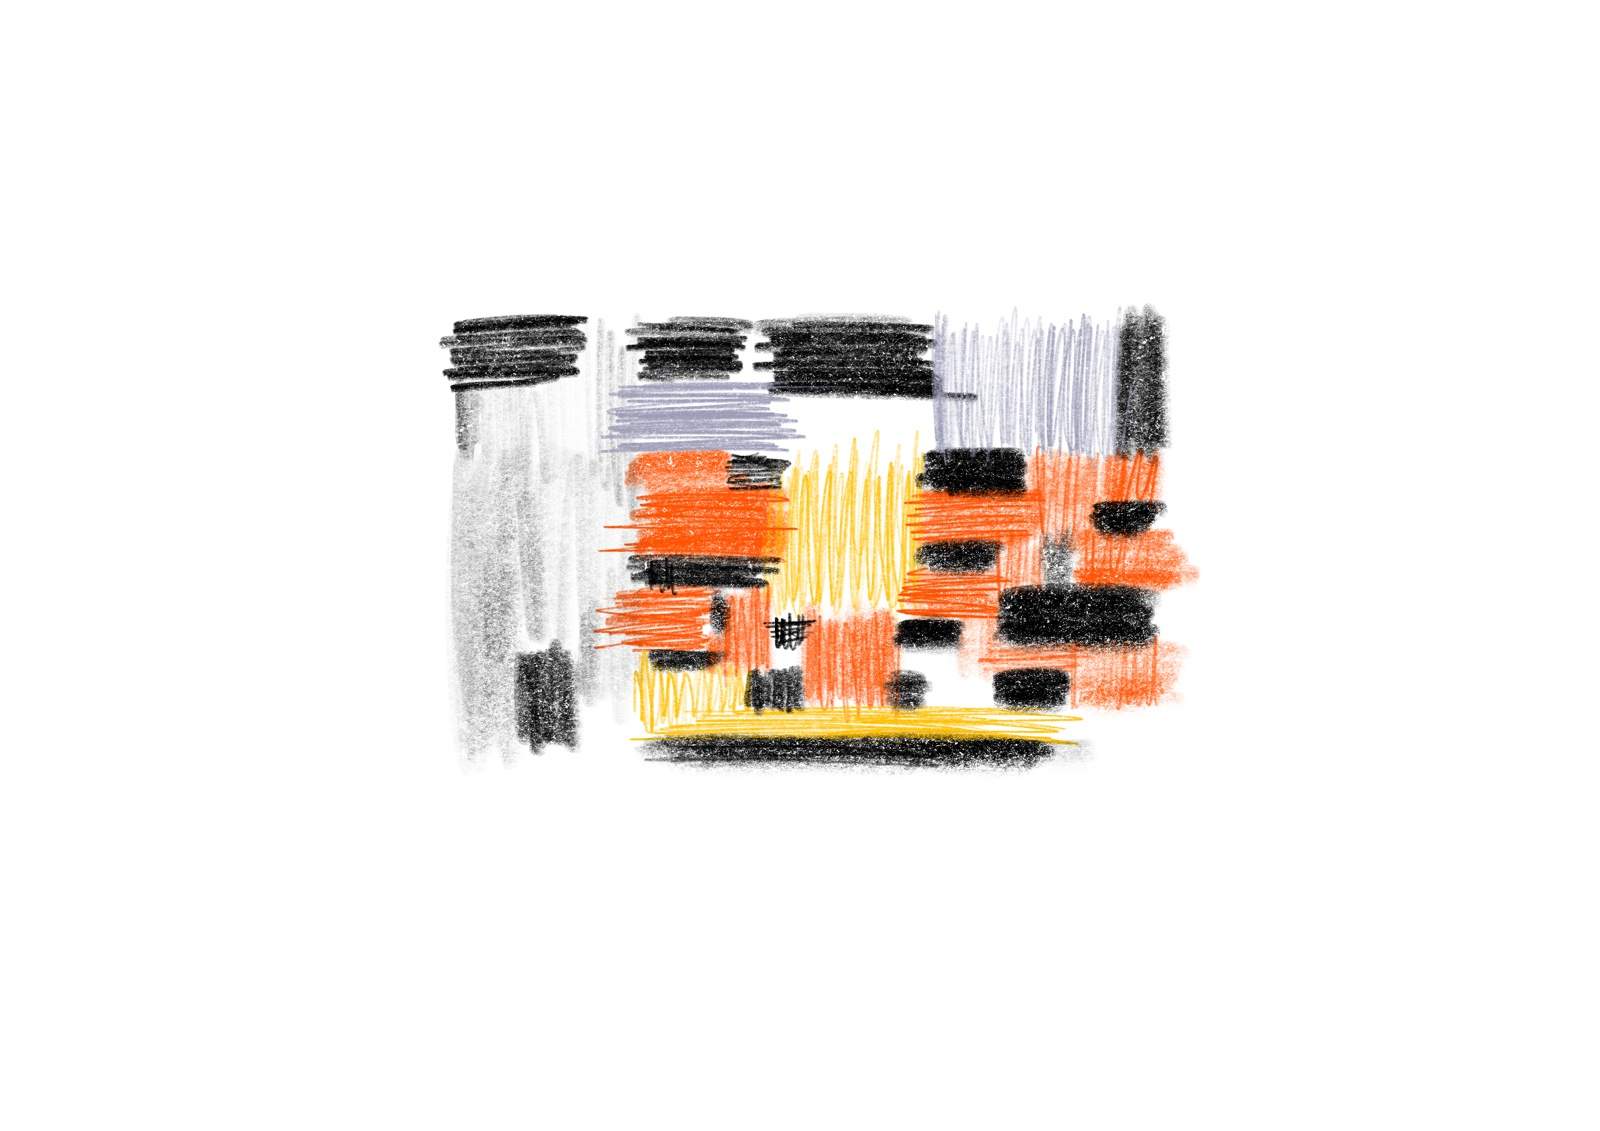
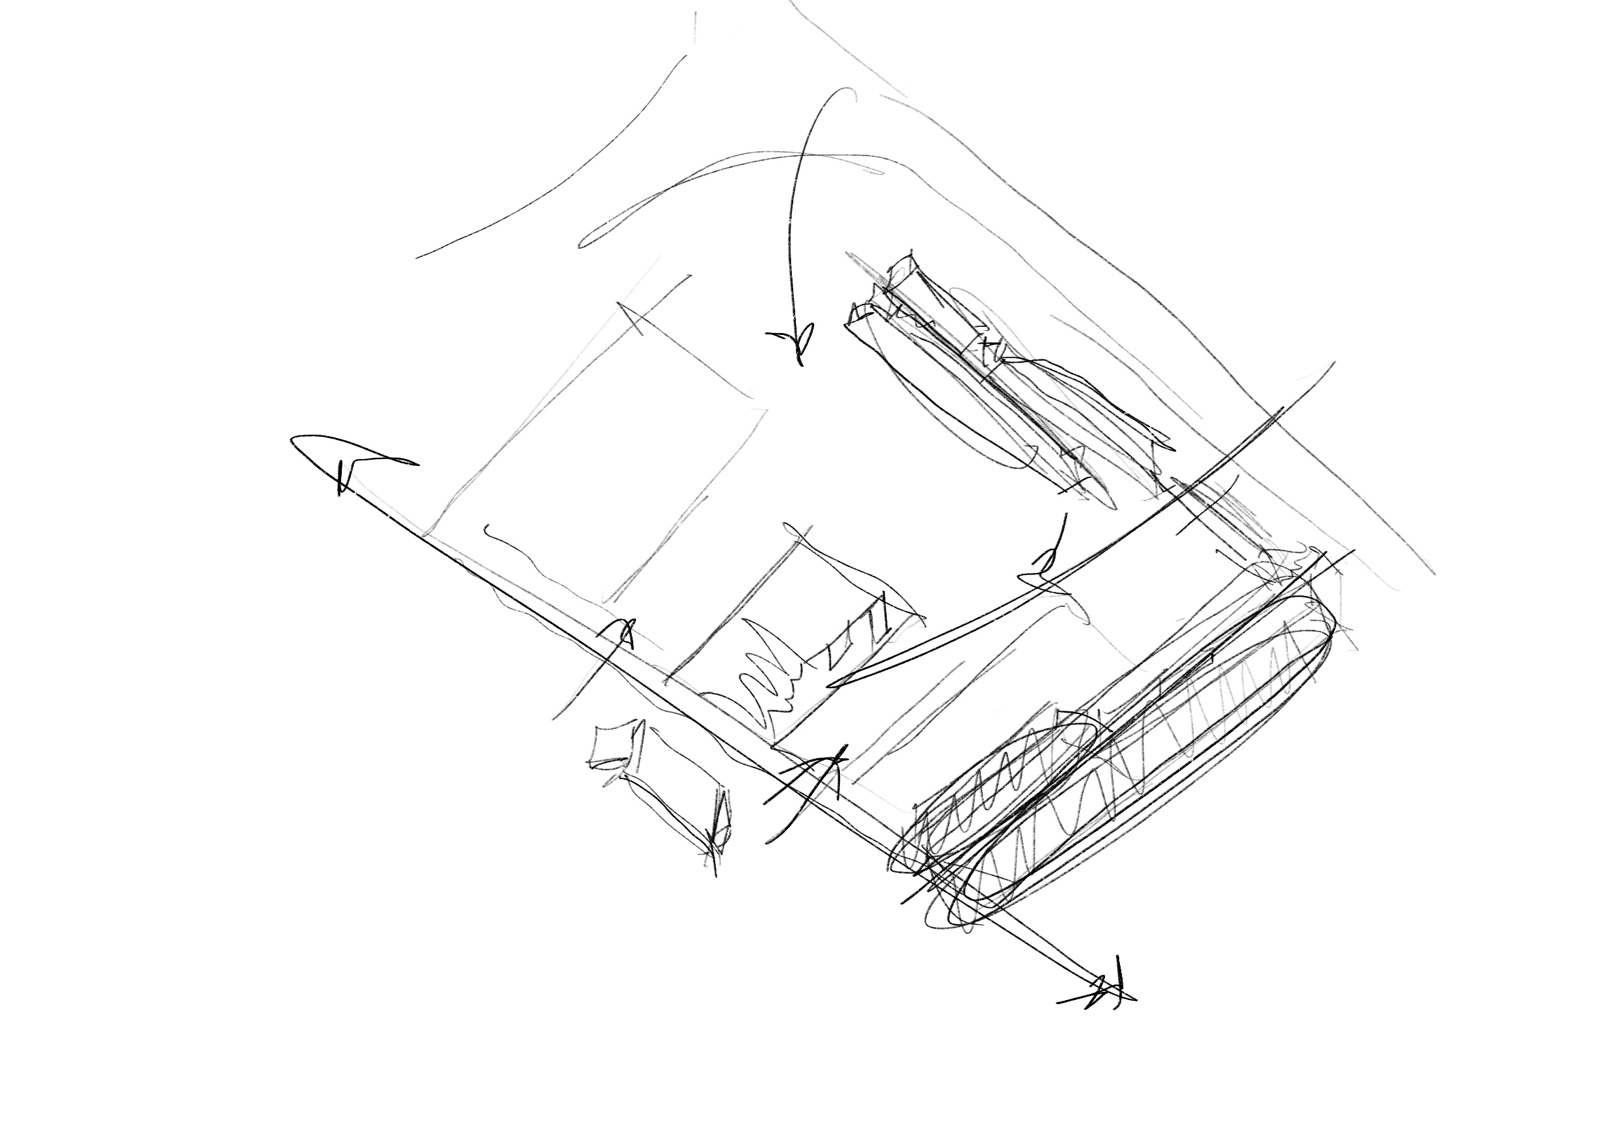
Replace Choijin Museum cover with new sketch and refresh image cache

diff --git a/index.html b/index.html
@@ -624,7 +624,7 @@ body:not(:has(.reference-section.active)) {
         // Код 1-ээс эхлээд дараалуулан зураг байгаа эсэхийг шалгаж, олдохгүй
         // болмогц зогсоно. Ингэснээр HTML огт засалгүйгээр зураг нэмэх/хасах боломжтой.
         const MAX_IMAGES_PER_PROJECT = 40; // нэг project-д байж болох дээд зургийн тоо
-        const IMAGE_VERSION = 5; // Ижил нэртэй зураг солихдоо энэ дугаарыг нэгээр нэмнэ.
+        const IMAGE_VERSION = 6; // Ижил нэртэй зураг солихдоо энэ дугаарыг нэгээр нэмнэ.
         const IMAGE_EXTENSIONS = ['jpg', 'jpeg', 'png', 'JPG', 'JPEG', 'PNG'];
 
         function tryLoadOneImage(url) {
